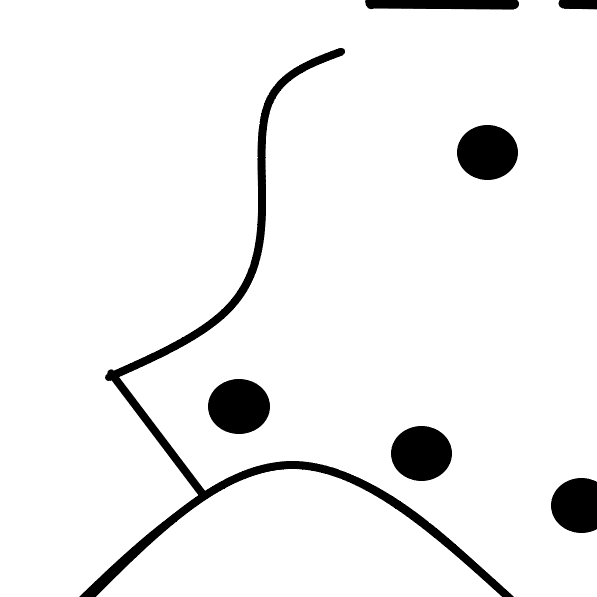
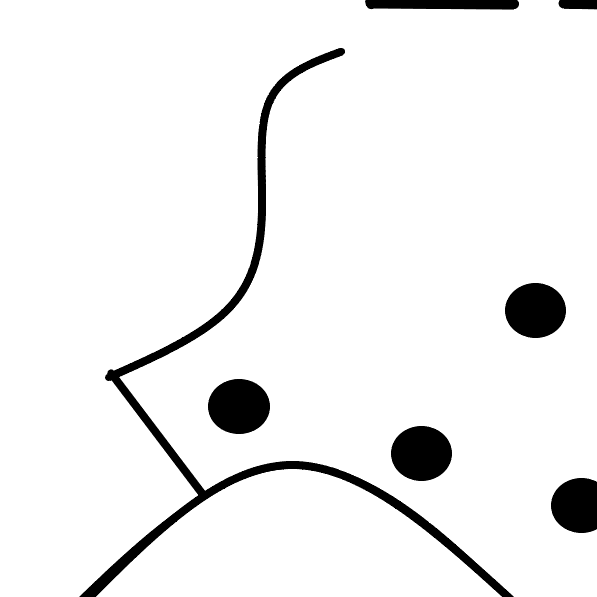
rum 3 billede edit + rum 2 og 3 added

Changed region(s): [[0.8442, 0.4523, 0.9648, 0.5729], [0.7538, 0.2111, 0.8744, 0.3015]]

diff --git a/Eksamensprojekt/DanseFeber.xaml b/Eksamensprojekt/DanseFeber.xaml
@@ -1,0 +1,59 @@
+<Page
+    x:Class="Eksamensprojekt.DanseFeber"
+    xmlns="http://schemas.microsoft.com/winfx/2006/xaml/presentation"
+    xmlns:x="http://schemas.microsoft.com/winfx/2006/xaml"
+    xmlns:local="using:Eksamensprojekt"
+    xmlns:d="http://schemas.microsoft.com/expression/blend/2008"
+    xmlns:mc="http://schemas.openxmlformats.org/markup-compatibility/2006"
+    mc:Ignorable="d"
+    Background="{ThemeResource ApplicationPageBackgroundThemeBrush}">
+
+    
+        <Grid>
+            <Grid.Background>
+                <ImageBrush ImageSource ="Assets/Rum 2.png" Stretch="Fill"></ImageBrush>
+            </Grid.Background>
+            <RelativePanel Margin="0,0,0,0">
+                <Button Name="HamburgerButton" Background="White" FontFamily="Segoe MDL2 Assets" Content="&#xE700;" Margin="10,23,0,0" Click="HamburgerButton_OnClick" HorizontalAlignment="Left" VerticalAlignment="Top"></Button>
+            </RelativePanel>
+            <SplitView Name="SplitView" IsPaneOpen="False" OpenPaneLength="150" Opacity="0.6">
+                <SplitView.Pane>
+                    <StackPanel Margin="0,60,0,0" Padding="20" Orientation="Horizontal" VerticalAlignment="Top">
+                        <Button Click="MainPage_OnClick" Background="DarkGoldenrod" >Forside</Button>
+                        <Image Source="Assets/rockrock.png" Width="32" Height="auto" Margin="5"></Image>
+                    </StackPanel>
+                </SplitView.Pane>
+                <SplitView.Content>
+                    <StackPanel Margin="0,0,0,0" Background="Transparent">
+
+                        <Button Name="Button1" Width="100" Height="100" Margin="210,425,0,0" Background="Transparent" Click="Popup1_OnClick">
+                            <Image Source="Assets/1 tal v1.png"></Image>
+                        </Button>
+                        <Popup Margin="270,-175,0,0" Width="150" Height="300" Name="Popup1">
+                            <StackPanel Background="LightBlue">
+                                <TextBlock Text="test" FontSize="25" TextAlignment="Center">
+
+                                </TextBlock>
+                            </StackPanel>
+                        </Popup>
+
+                        <Button Name="Button2" Width="100" Height="100" Margin="50,-1050,0,0" Background="Transparent" Click="Popup2_OnClick">
+                            <Image Source="Assets/2 tal (2).png"></Image>
+                        </Button>
+                        <Popup Margin="0,-500,0,0" Width="200" Height="450" Name="Popup2" >
+
+                            <StackPanel Background="LightBlue">
+
+                                <TextBlock Text="test " FontSize="25" TextWrapping="Wrap">
+
+                                </TextBlock>
+                            </StackPanel>
+                        </Popup>
+
+                    </StackPanel>
+
+                </SplitView.Content>
+
+            </SplitView>
+        </Grid>
+</Page>

diff --git a/Eksamensprojekt/Skælv.xaml b/Eksamensprojekt/Skælv.xaml
@@ -1,0 +1,45 @@
+<Page
+    x:Class="Eksamensprojekt.Skælv"
+    xmlns="http://schemas.microsoft.com/winfx/2006/xaml/presentation"
+    xmlns:x="http://schemas.microsoft.com/winfx/2006/xaml"
+    xmlns:local="using:Eksamensprojekt"
+    xmlns:d="http://schemas.microsoft.com/expression/blend/2008"
+    xmlns:mc="http://schemas.openxmlformats.org/markup-compatibility/2006"
+    mc:Ignorable="d"
+    Background="{ThemeResource ApplicationPageBackgroundThemeBrush}">
+
+    <Grid>
+        <Grid.Background>
+            <ImageBrush ImageSource ="Assets/Rum 3.png" Stretch="Fill"></ImageBrush>
+        </Grid.Background>
+        <RelativePanel Margin="0,0,0,0">
+            <Button Name="HamburgerButton" Background="White" FontFamily="Segoe MDL2 Assets" Content="&#xE700;" Margin="10,23,0,0" Click="HamburgerButton_OnClick" HorizontalAlignment="Left" VerticalAlignment="Top"></Button>
+        </RelativePanel>
+        <SplitView Name="SplitView" IsPaneOpen="False" OpenPaneLength="150" Opacity="0.6">
+            <SplitView.Pane>
+                <StackPanel Margin="0,60,0,0" Padding="20" Orientation="Horizontal" VerticalAlignment="Top">
+                    <Button Click="MainPage_OnClick" Background="DarkGoldenrod" >Forside</Button>
+                    <Image Source="Assets/rockrock.png" Width="32" Height="auto" Margin="5"></Image>
+                </StackPanel>
+            </SplitView.Pane>
+            <SplitView.Content>
+                <StackPanel Margin="0,0,0,0" Background="Transparent">
+
+                    <Button Name="Button1" Width="100" Height="100" Margin="265,435,0,0" Background="Transparent" Click="Popup1_OnClick">
+                        <Image Source="Assets/1 tal v1.png"></Image>
+                    </Button>
+                    <Popup Margin="270,-175,0,0" Width="150" Height="300" Name="Popup1">
+                        <StackPanel Background="LightBlue">
+                            <TextBlock Text="test" FontSize="25" TextAlignment="Center">
+
+                            </TextBlock>
+                        </StackPanel>
+                    </Popup>
+
+                </StackPanel>
+
+            </SplitView.Content>
+
+        </SplitView>
+    </Grid>
+</Page>

diff --git a/Eksamensprojekt/MainPage.xaml b/Eksamensprojekt/MainPage.xaml
@@ -25,9 +25,12 @@
         </RelativePanel>
         <SplitView Name="mySplitView" DisplayMode="Overlay" IsPaneOpen="False" OpenPaneLength="350" Opacity="0.6" Margin="0,81,10,29" HorizontalAlignment="Stretch" Grid.RowSpan="2" VerticalAlignment="Stretch">
             <SplitView.Pane>
-                <StackPanel Margin="0,60,0,0" Padding="20" Orientation="Horizontal" VerticalAlignment="Top">
-                    <Button Click="Rum1_OnClick" Background="DarkGoldenrod" FontSize="30" >Lad Der Være Lys</Button>
-                    <Image Margin="5" Width="52" Height="auto" Source="Assets/LadDerVaereLys.png"></Image>
+                <StackPanel Margin="0,0,0,0" Padding="20" Orientation="Horizontal" VerticalAlignment="Top" Height="600" Width="350">
+                    <Button Click="Rum1_OnClick" Background="DarkGoldenrod" FontSize="30" Margin="0,-450,0,0" Width="245" >Lad Der Være Lys</Button>
+                    <Image Margin="5,0,0,450" Width="52" Height="auto" Source="Assets/LadDerVaereLys.png"></Image>
+
+                    <Button Click="Rum2_OnClick" Background="DarkGoldenrod" FontSize="30" Margin="-300,-300,0,0" Width="245" >DanseFeber</Button>
+                    <Image Margin="-50,0,0,300" Width="52" Height="Auto" Source="Assets/Dansefeber.png"></Image>
                 </StackPanel>
 
 

diff --git a/Eksamensprojekt/DanseFeber.xaml.cs b/Eksamensprojekt/DanseFeber.xaml.cs
@@ -13,33 +13,36 @@ using Windows.UI.Xaml.Input;
 using Windows.UI.Xaml.Media;
 using Windows.UI.Xaml.Navigation;
 
-// The Blank Page item template is documented at https://go.microsoft.com/fwlink/?LinkId=402352&clcid=0x409
+// The Blank Page item template is documented at https://go.microsoft.com/fwlink/?LinkId=234238
 
 namespace Eksamensprojekt
 {
     /// <summary>
     /// An empty page that can be used on its own or navigated to within a Frame.
     /// </summary>
-    public sealed partial class MainPage : Page
+    public sealed partial class DanseFeber : Page
     {
-        public MainPage()
+        public DanseFeber()
         {
             this.InitializeComponent();
         }
-
         private void HamburgerButton_OnClick(object sender, RoutedEventArgs e)
         {
-            this.mySplitView.IsPaneOpen = !this.mySplitView.IsPaneOpen;
+            this.SplitView.IsPaneOpen = !this.SplitView.IsPaneOpen;
         }
 
-        private void Rum1_OnClick(object sender, RoutedEventArgs e)
+        private void MainPage_OnClick(object sender, RoutedEventArgs e)
         {
-            this.Frame.Navigate(typeof(LadDerVaereLys));
-        }
-        private void Rum2_OnClick(object sender, RoutedEventArgs e)
-        {
-            this.Frame.Navigate(typeof(DanseFeber));
+            this.Frame.Navigate(typeof(MainPage));
         }
 
+        public void Popup1_OnClick(object sender, RoutedEventArgs e)
+        {
+            this.Popup1.IsOpen = !this.Popup1.IsOpen;
+        }
+        public void Popup2_OnClick(object sender, RoutedEventArgs e)
+        {
+            this.Popup2.IsOpen = !this.Popup2.IsOpen;
+        }
     }
 }

diff --git a/Eksamensprojekt/Skælv.xaml.cs b/Eksamensprojekt/Skælv.xaml.cs
@@ -13,33 +13,36 @@ using Windows.UI.Xaml.Input;
 using Windows.UI.Xaml.Media;
 using Windows.UI.Xaml.Navigation;
 
-// The Blank Page item template is documented at https://go.microsoft.com/fwlink/?LinkId=402352&clcid=0x409
+// The Blank Page item template is documented at https://go.microsoft.com/fwlink/?LinkId=234238
 
 namespace Eksamensprojekt
 {
     /// <summary>
     /// An empty page that can be used on its own or navigated to within a Frame.
     /// </summary>
-    public sealed partial class MainPage : Page
+    public sealed partial class Skælv : Page
     {
-        public MainPage()
+        public Skælv()
         {
             this.InitializeComponent();
         }
-
         private void HamburgerButton_OnClick(object sender, RoutedEventArgs e)
         {
-            this.mySplitView.IsPaneOpen = !this.mySplitView.IsPaneOpen;
+            this.SplitView.IsPaneOpen = !this.SplitView.IsPaneOpen;
         }
 
-        private void Rum1_OnClick(object sender, RoutedEventArgs e)
+        private void MainPage_OnClick(object sender, RoutedEventArgs e)
         {
-            this.Frame.Navigate(typeof(LadDerVaereLys));
-        }
-        private void Rum2_OnClick(object sender, RoutedEventArgs e)
-        {
-            this.Frame.Navigate(typeof(DanseFeber));
+            this.Frame.Navigate(typeof(MainPage));
         }
 
+        public void Popup1_OnClick(object sender, RoutedEventArgs e)
+        {
+            this.Popup1.IsOpen = !this.Popup1.IsOpen;
+        }
+        public void Popup2_OnClick(object sender, RoutedEventArgs e)
+        {
+            this.Popup2.IsOpen = !this.Popup2.IsOpen;
+        }
     }
 }
